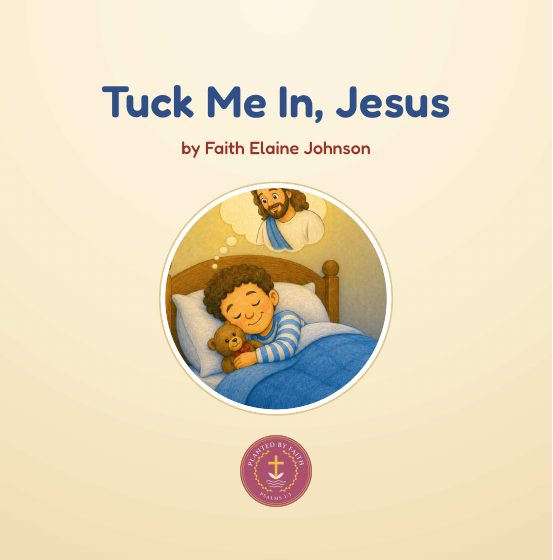
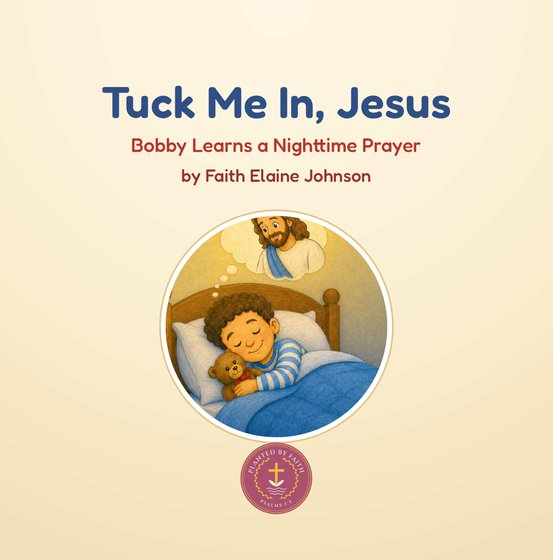
Tuck Me In, Jesus: subtitle Bobby Learns a Nighttime Prayer (site card, cover image, look-inside p.1, notes)

Changed region(s): [[0.2152, 0.2429, 0.7685, 0.9411], [0.1844, 0.1518, 0.83, 0.2125], [0.9837, 0.0, 1.0, 1.0]]

diff --git a/src/data/products.ts b/src/data/products.ts
@@ -142,6 +142,7 @@ export const shelves: Shelf[] = [
       },
       {
         title: 'Tuck Me In, Jesus',
+        subtitle: 'Bobby Learns a Nighttime Prayer',
         image: '/images/shop/tuck-me-in.jpg',
         imageSize: [600, 600],
         details: ['A full-color bedtime story for ages 4 to 8', 'Teaches a simple prayer to say every night', '8.5 x 8.5 in paperback, 36 pages'],

diff --git a/CLAUDE.md b/CLAUDE.md
@@ -37,7 +37,7 @@ Shared notes for Claude. **Update this file (and commit it) when a decision is m
 - **KDP spine-text rejection (2026-11-09):** KDP bounced a Book by Book cover: "spine text too close to the edges" (the email quotes the 0.375 in top/bottom rule, but our text was 3.8 in from top/bottom; the real fault was letters filling the ~0.24 in spine, ~0.04 in from each fold, KDP wants 0.0625 in). Faith chose no spine words; OT + NT covers rebuilt without the spine svg, frozen in `submitted/2026-11-09/` (interiors unchanged), Save buttons on the Tuck Me In proof page updated. Only the NT book was bounced: Faith + Tim uploaded its fixed cover and resubmitted 11-09; the OT book went LIVE by 11-09 with its 11-05 cover (spine text and all; the 11-09 OT cover is unused). **Rule for future covers: no spine text on spines under about 0.4 in; if there is spine text, keep it 0.0625 in clear of both folds.**
 - **Both Bible books SUBMITTED to KDP 2026-11-08 (Faith):** $9.99 each (60% royalty; print cost $2.84, the large-trim rate), free KDP ISBNs OT 9798141044083 / NT 9798141053740, uploaded from `submitted/2026-11-05/` (checksums re-checked). They used both of that week's KDP slots; next slot after Sat 11-14 7 PM EST. **Both LIVE on Amazon by 2026-11-09** (OT B0HQY4RTJB, NT B0HR352B7W after its cover fix); ASINs in both logs; Buy buttons live on the site 11-09.
 - **Story coloring book "Better Than All My Toys: Bobby Learns to Share Jesus" (Faith, started and fully built 2026-11-04), ages 4-8:** takes the last KDP paperback slot of the week (submit by Sat 2026-11-07, 7 PM EST). Faith's idea: sharing toys leads into sharing Jesus; Bobby (curly hair, striped shirt, shorts) and his friend Henry (straight hair, plain shirt, long pants), always the same size, never holding hands; Mark 16:15 + Psalm 147:5 (first half), WEB. Layout = story words on the left page, picture on the right (no activity pages); 22 pictures, 48 pages: p.1 front, pp.2-45 spreads, p.46 Go and Share! (verse + prayer = Claude draft), p.47 cut-out certificate (dashed line by the spine), p.48 back of it. Files in `private/kdp/better-than-toys/`: `STORY-NOTES.md` (every decision and fix), `pages.json` (approved words), `build-book.py`, `final-art.txt`, `cover.html`, `kdp-listing.md`, `kdp-submission-log.txt` (PREPARED), frozen PDFs in `submitted/2026-11-05/` (the 11-04 folder is an older version). **SUBMITTED to KDP 2026-11-05 by Faith** after Tim's OK: ISBN 9798140187842, $8.99, previewer clean. When live: record the ASIN in the log, add the book to `src/data/products.ts` (site deploy needs Tim's or Faith's OK). Proof page (cover + all 48 pages): https://claude.ai/artifact/37qR73JP71f7dupwFXP2cd. Faith's drawing rules from this book: **suns never have faces, in any book** (2026-11-05; in every style.txt); every woman/girl gets the teacher's small round C-curve nose; no grass indoors; keep places identical across pages (park reference = p.3, Sunday school room = p.6). Cover = Faith's pick A, repainted with Bobby fair-skinned and Henry a little tanner (Tim). Ideas parked for later books: a how-to-pray book (Lily praying for her sick grandma was cut from this one for it) and a full-color picture book. The OpenAI credit ran out mid-cover on 11-04; Tim topped it up. Gotcha: the masked edit can drop or move people outside the mask (it removed a girl twice); compare the whole picture.
-- **Picture book "Tuck Me In, Jesus" (Faith, started 2026-11-05), ages 4-8, FULL COLOR:** a bedtime story parents read aloud that teaches a nightly prayer. Faith wanted "Goodnight Jesus" (taken by 4+ books), picked "Tuck Me In, Jesus" (no exact match found; DaySpring has a "Tuck-Me-In" board-book line: USPTO check before submitting). Bobby again, with **Dad** (Dad A: curly brown hair, short beard, red/navy plaid flannel, jeans); Mom in the doorway at tuck-in (light-brown wavy shoulder-length hair: blonde was tried and dropped 11-06; rose-pink top, jeans). **Whenever a parent's left hand shows, it wears a thin gold wedding band** (Faith, 11-06). Trim **8.5 x 8.5 square** (11-06). Bobby matches the Toys cover. **Prayer pattern (Faith): Thank You → I love You → Please watch over my loved ones (Grandma is sick) → Amen.** Teddy bear and the big red truck appear. ~12 story pictures + "Let's Pray Together" + "My Prayer" pages. Everything (outline, words draft 1, decisions, drawing notes): `private/kdp/tuck-me-in/STORY-NOTES.md`; family reference `refs/family.png`; proof page https://claude.ai/artifact/RF6WF9aCeR3yaiR9jW7so2. **11-06: all 12 story pages drawn** (2048px squares via `tuck-me-in/edit-image.py` with `SIZE=2048x2048`; rules in `prompts/style.txt`; Faith's fixes logged in STORY-NOTES.md); **Whole book BUILT 11-06; Faith then changed the layout to words alone on the left page, picture alone on the right = 36 pp** (was 24 pp: title, copyright, belongs-to, 12 story, Let's Pray Together, a read-aloud prayer per night Sun-Sat, certificate; cover A = Jesus beside the bed, "by Faith Elaine Johnson"): `tuck-me-in-interior.pdf` + `tuck-me-in-cover.pdf`, build steps in STORY-NOTES.md. **KDP package PREPARED 11-06** (`kdp-listing.md`, `kdp-submission-log.txt`, frozen `submitted/2026-11-06/`); USPTO title check CLEAR (11-06, details in the log). **11-08: Tim's fresh-eyes edits done** (Dad sits in his own wooden CHAIR beside the bed on pp.9-23, same bed (p.21's) everywhere, p.25 = Dad + Bobby only, no door or Mom; refrozen in `submitted/2026-11-08/`). Open: Faith OKs the drafted words (subtitle, title/copyright pages, back cover, description), Tim's fresh eyes (proof page top section), verify spine width + print cost on KDP; submit week of 11-15. Paperback only (Faith 11-06): KDP hardcover has no square trim and needs 75+ pages; a hardcover later = IngramSpark 2nd edition (own ISBN), parked. KDP slot: week of 11-15 at the earliest. **Getting KDP files onto the Mac (11-08):** plain links to PDFs on an artifact page are blocked (ERR_BLOCKED_BY_RESPONSE); the Tuck Me In proof page has Save buttons (`downloads` capability) for its 2 files, the OT/NT files (covers = the 11-09 no-spine-text versions) and the Facebook cover + profile picture.
+- **Picture book "Tuck Me In, Jesus" (Faith, started 2026-11-05), ages 4-8, FULL COLOR:** a bedtime story parents read aloud that teaches a nightly prayer. Faith wanted "Goodnight Jesus" (taken by 4+ books), picked "Tuck Me In, Jesus" (no exact match found; DaySpring has a "Tuck-Me-In" board-book line: USPTO check before submitting). Bobby again, with **Dad** (Dad A: curly brown hair, short beard, red/navy plaid flannel, jeans); Mom in the doorway at tuck-in (light-brown wavy shoulder-length hair: blonde was tried and dropped 11-06; rose-pink top, jeans). **Whenever a parent's left hand shows, it wears a thin gold wedding band** (Faith, 11-06). Trim **8.5 x 8.5 square** (11-06). Bobby matches the Toys cover. **Prayer pattern (Faith): Thank You → I love You → Please watch over my loved ones (Grandma is sick) → Amen.** Teddy bear and the big red truck appear. ~12 story pictures + "Let's Pray Together" + "My Prayer" pages. Everything (outline, words draft 1, decisions, drawing notes): `private/kdp/tuck-me-in/STORY-NOTES.md`; family reference `refs/family.png`; proof page https://claude.ai/artifact/RF6WF9aCeR3yaiR9jW7so2. **11-06: all 12 story pages drawn** (2048px squares via `tuck-me-in/edit-image.py` with `SIZE=2048x2048`; rules in `prompts/style.txt`; Faith's fixes logged in STORY-NOTES.md); **Whole book BUILT 11-06; Faith then changed the layout to words alone on the left page, picture alone on the right = 36 pp** (was 24 pp: title, copyright, belongs-to, 12 story, Let's Pray Together, a read-aloud prayer per night Sun-Sat, certificate; cover A = Jesus beside the bed, "by Faith Elaine Johnson"): `tuck-me-in-interior.pdf` + `tuck-me-in-cover.pdf`, build steps in STORY-NOTES.md. **KDP package PREPARED 11-06** (`kdp-listing.md`, `kdp-submission-log.txt`, frozen `submitted/2026-11-06/`); USPTO title check CLEAR (11-06, details in the log). **11-08: Tim's fresh-eyes edits done** (Dad sits in his own wooden CHAIR beside the bed on pp.9-23, same bed (p.21's) everywhere, p.25 = Dad + Bobby only, no door or Mom; refrozen in `submitted/2026-11-08/`). Open: Faith OKs the drafted words (subtitle, title/copyright pages, back cover, description), Tim's fresh eyes (proof page top section), verify spine width + print cost on KDP; submit week of 11-15. Paperback only (Faith 11-06): KDP hardcover has no square trim and needs 75+ pages; a hardcover later = IngramSpark 2nd edition (own ISBN), parked. KDP slot: week of 11-15 at the earliest. **11-13 SUBTITLE "Bobby Learns a Nighttime Prayer"** (Tim's idea, Faith's words): on the front cover (`cover-subtitle.py`), title page, copyright line and KDP form; `make-pdf.sh` rebuilds both PDFs; upload set = `submitted/2026-11-13/`; site card + cover image updated locally (deploy waits for Faith's OK). **Getting KDP files onto the Mac (11-08):** plain links to PDFs on an artifact page are blocked (ERR_BLOCKED_BY_RESPONSE); the Tuck Me In proof page has Save buttons (`downloads` capability) for its 2 files, the OT/NT files (covers = the 11-09 no-spine-text versions) and the Facebook cover + profile picture.
 - **Christmas countdown coloring book (Faith, started 2026-11-09), "Countdown to Christmas: 25 Days to Color the Story of Jesus":** for the week-of-11-15 KDP slot with Tuck Me In, live by late November for Christmas shoppers. One picture per day Dec 1-25, all Bible (no modern family pages, Faith: "all about Jesus"); story words on the left page ending "I colored Day N [ ]", picture on the right with a verse under it. Day list, stories (`stories.json`) and verses (`verses.json`, all checked on bible-api.com) APPROVED 11-09. Drawing starts 11-10, one picture at a time. **11-10: all 25 drawn; REMIND Faith: Day 24 must be redrawn at the stable with baby Jesus (OpenAI credit ran out; Tim to top up).** Faith dislikes the boxy stone houses (Days 2, 8 stay unless Tim objects). Everything in `private/kdp/christmas-countdown/STORY-NOTES.md`. Other ideas parked: "Hide It in My Heart" (52 memory verses), "Bible Heroes"; the Lily prayer book is dropped (too close to Tuck Me In).
 - **Picture book "Bobby and the Broken Window: Learning to Tell the Truth" (Faith, started 2026-11-11), ages 4-8, FULL COLOR,** same look and size as Tuck Me In (8.5 square, words left page, picture right). Story, words (15 pages), prayer, verse John 8:32 (WEB, switched to ESV 11-13) and title all APPROVED 11-11. Drawing one page at a time; pages 1-2 DONE 11-11 (code fixes for gloves, ball, skin; see notes); pp.3-6 DONE 11-12 (Faith's fixes in notes), Everything: `private/kdp/bobby-truth/STORY-NOTES.md`; proof page https://claude.ai/artifact/R5TGnjY1gYZu5EwEV8sLBw. pp.3-8 DONE 11-12. ALL 15 story pages DONE + APPROVED 11-12 (p.14 moved outside with new words; p.15 park with Mom on the bench); current art list at the end of STORY-NOTES.md. 11-12 INTERIOR BUILT: 36 pp `bobby-window-interior.pdf` via `make-pdf.sh` (no color pages; Faith's prayer page, John 8:32 WEB, p.36 Let's Talk About It = draft to OK). COVER BUILT 11-12 (`bobby-window-cover.pdf`, 1248.08 x 630 pt; back shows the 2 other Bobby books, Tim's idea). Faith OK'd the cover (window cracks fine) and the back words (11-12). 11-13 Faith APPROVED the copyright page, p.36 Let's Talk About It and `kdp-listing.md`; verse switched to ESV in the book (p.35) and listing, with the Crossway credit line on p.2. Proof page has Save buttons for both PDFs (republish them after any rebuild). Open: Tim's fresh eyes; then KDP spine/print cost check, submission log, freeze in submitted/; KDP slot after Sat 11-21. Earliest KDP slot: after Sat 11-21 7 PM EST.
 - **Future book ideas: `BOOK-IDEAS.md`** (Faith, 2026-11-11). Ages 4-8 first, Bobby stories first; other ages after.
